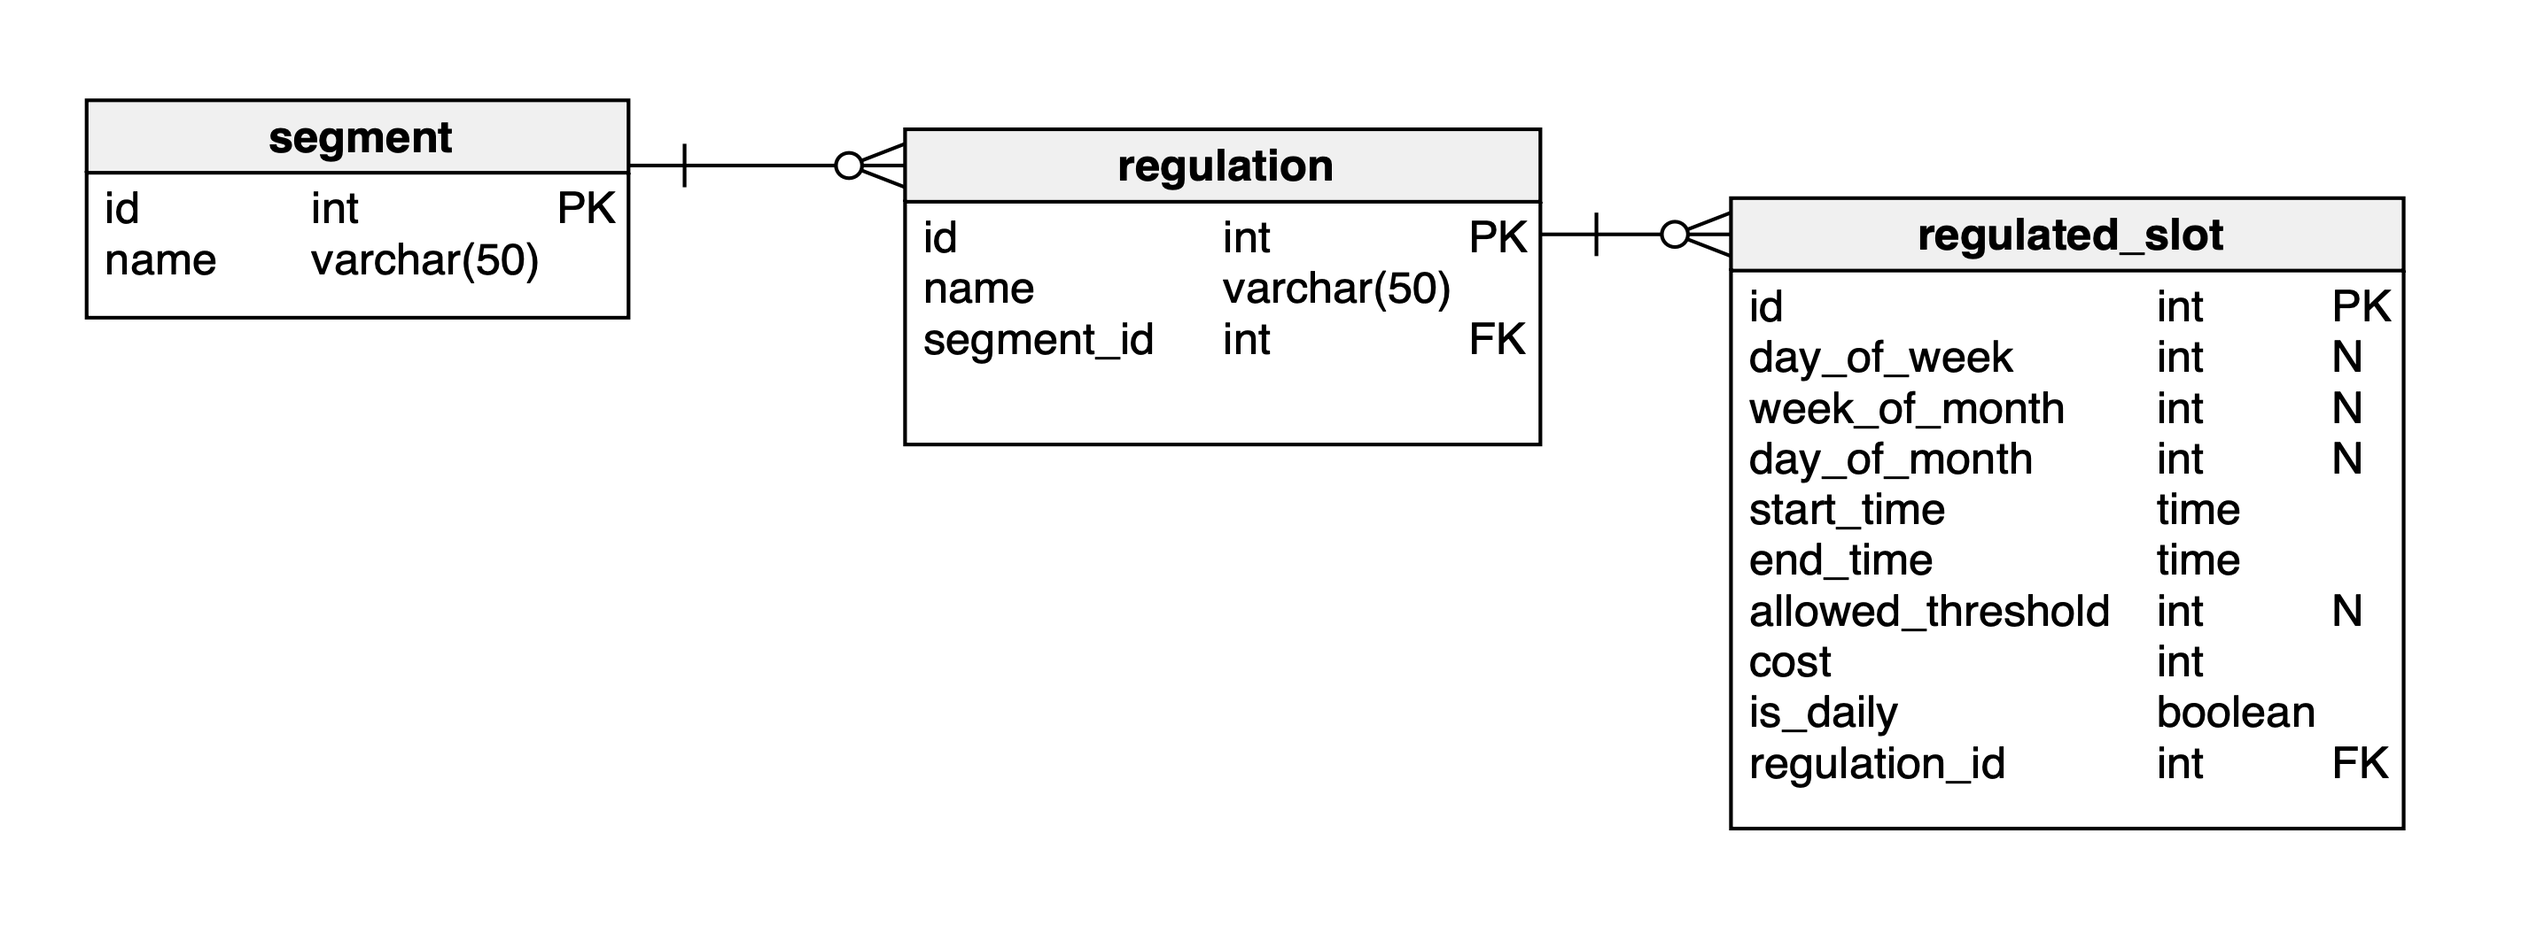
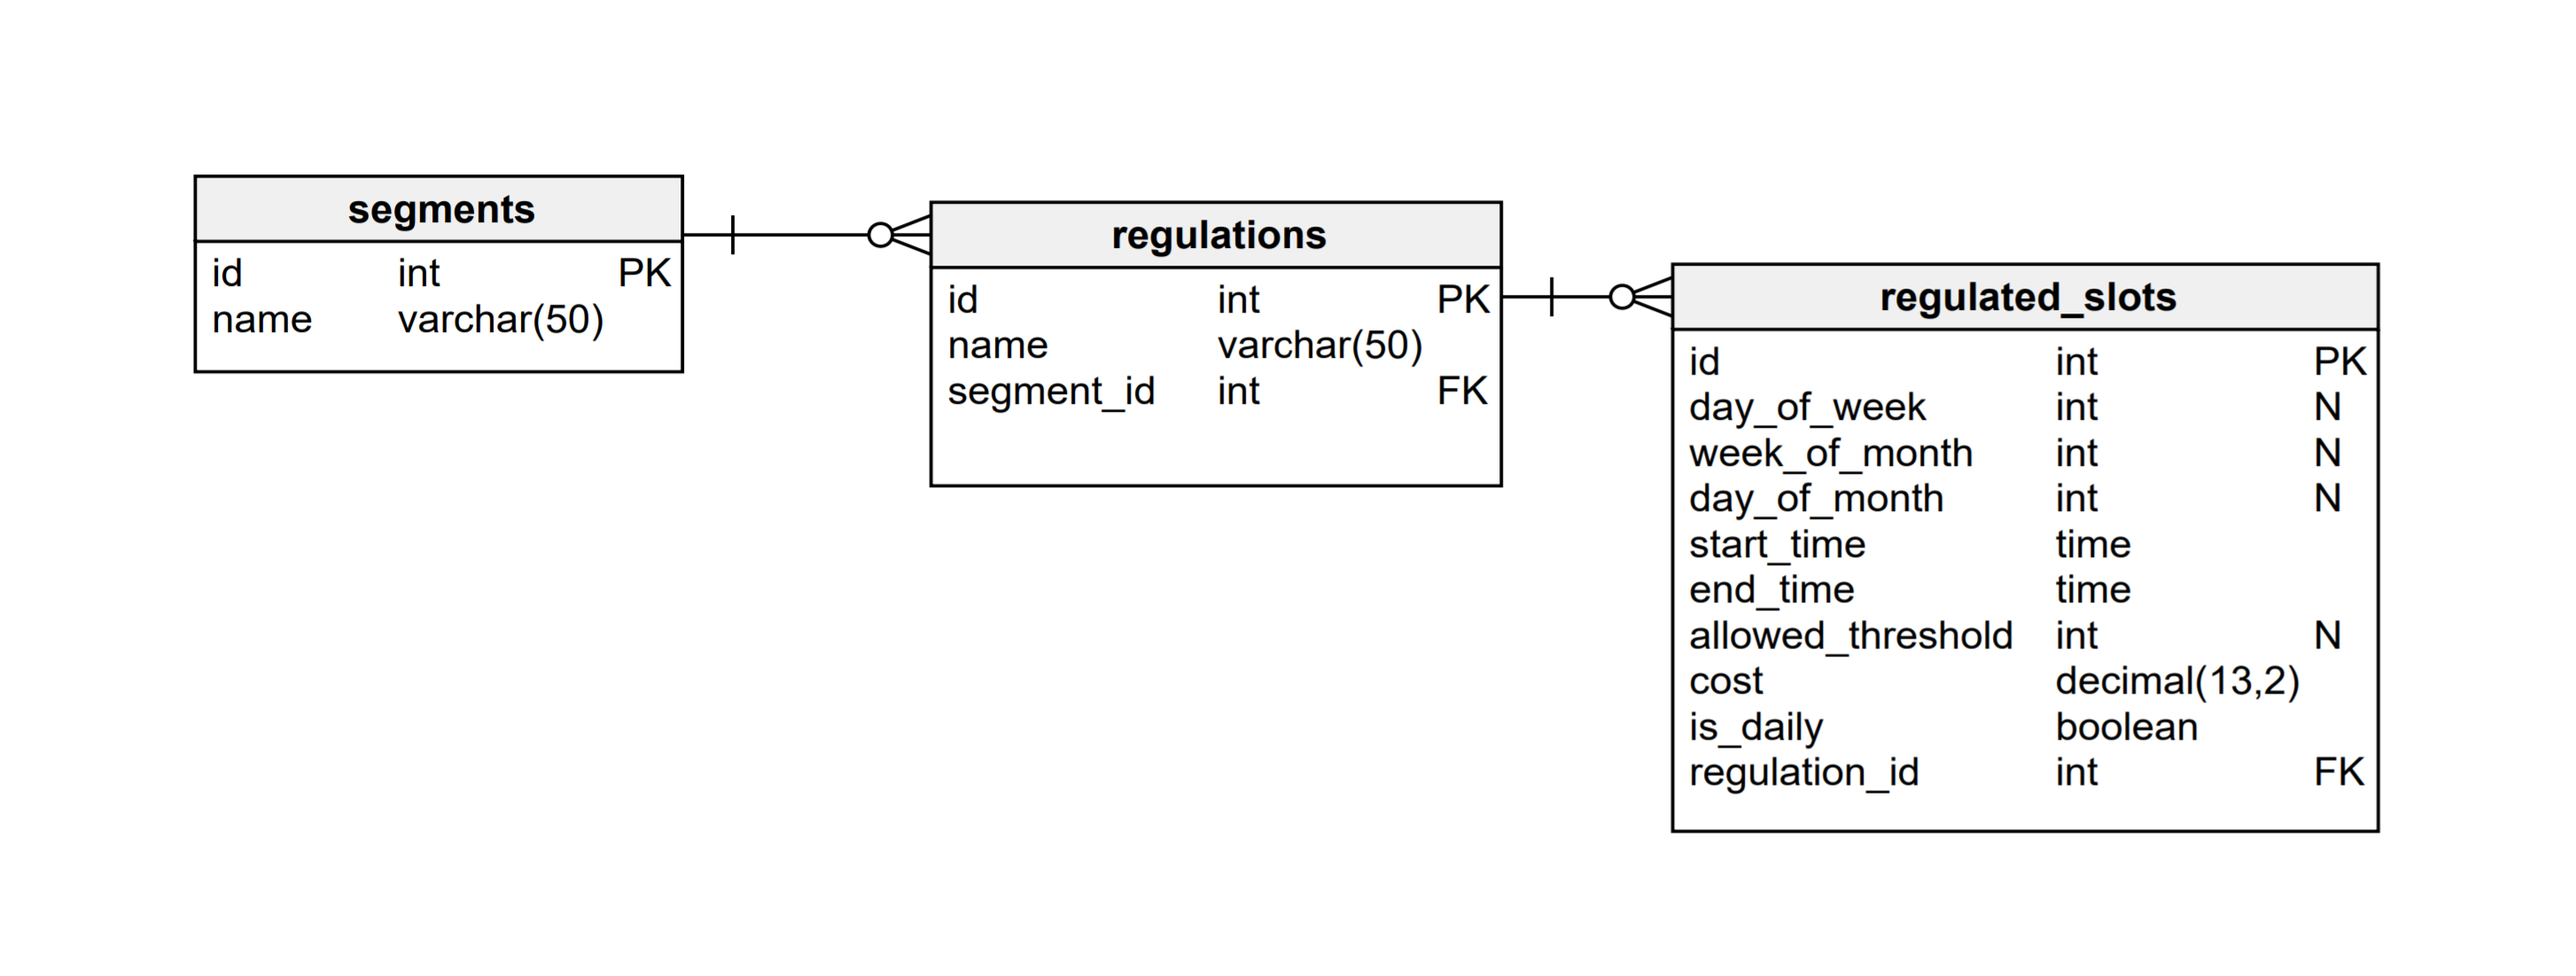
Added models

Changed region(s): [[0.0312, 0.0918, 0.9667, 0.8566], [0.6861, 0.8872, 0.9355, 0.9178], [0.9043, 0.6424, 0.9355, 0.673]]

diff --git a/model/regulation_slot.go b/model/regulation_slot.go
@@ -1,0 +1,16 @@
+package model
+
+import "time"
+
+type RegulationSlot struct {
+	ID               int       `gorm:"column:id;primary_key" json:"id"`
+	DayOfWeek        *int      `gorm:"column:day_of_week" json:"day_of_week"`
+	WeekOfMonth      *int      `gorm:"column:week_of_month" json:"week_of_month"`
+	DayOfMonth       *int      `gorm:"column:day_of_month" json:"day_of_month"`
+	StartTime        time.Time `gorm:"column:start_time" json:"start_time"`
+	EndTime          time.Time `gorm:"column:end_time" json:"end_time"`
+	AllowedThreshold *int      `gorm:"column:allowed_threshold" json:"allowed_threshold"`
+	Cost             float32   `gorm:"column:cost" json:"cost"`
+	IsDaily          bool      `gorm:"column:is_daily" json:"is_daily"`
+	RegulationId     int       `gorm:"column:regulation_id" json:"regulation_id"`
+}

diff --git a/cmd/serve.go b/cmd/serve.go
@@ -7,6 +7,8 @@ import (
 	"os"
 	"time"
 
+	"github.com/Joker666/spotangels-demo/web"
+	"github.com/Joker666/spotangels-demo/web/controller"
 	"github.com/gorilla/mux"
 	"github.com/joho/godotenv"
 	_ "github.com/lib/pq"
@@ -38,8 +40,13 @@ func serve(cmd *cobra.Command, args []string) error {
 	}
 	log.Println(db.Name())
 
+	regulationController := controller.NewRegulationController()
+
 	port := ":" + os.Getenv("PORT")
 	r := mux.NewRouter()
+	s := r.PathPrefix("/api").Subrouter()
+
+	web.NewServer(s, regulationController)
 
 	log.Println("Starting server on", port)
 	srv := &http.Server{

diff --git a/model/regulation.go b/model/regulation.go
@@ -1,0 +1,7 @@
+package model
+
+type Regulation struct {
+	ID        int    `gorm:"column:id;primary_key" json:"id"`
+	Name      string `gorm:"column:name" json:"email"`
+	SegmentID int    `gorm:"column:segment_id" json:"segment_id"`
+}

diff --git a/model/segment.go b/model/segment.go
@@ -1,0 +1,6 @@
+package model
+
+type Segment struct {
+	ID   int    `gorm:"column:id;primary_key" json:"id"`
+	Name string `gorm:"column:name" json:"email"`
+}
